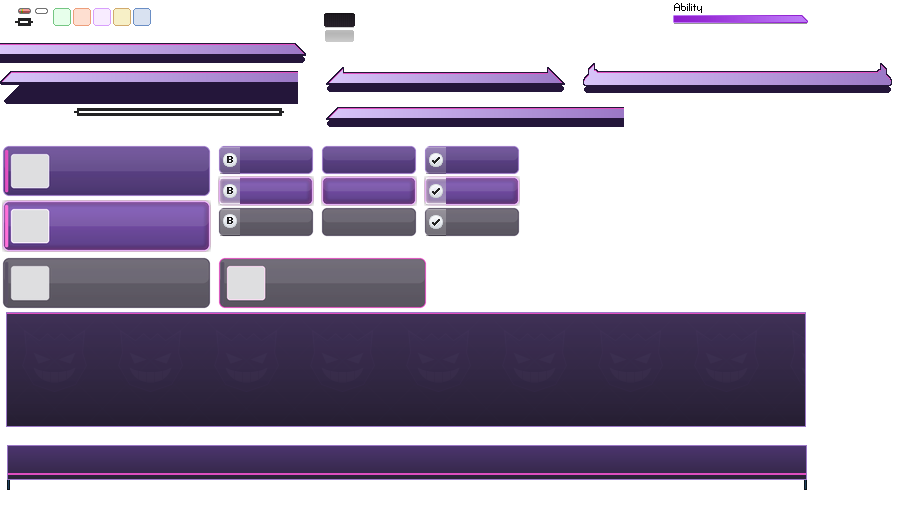
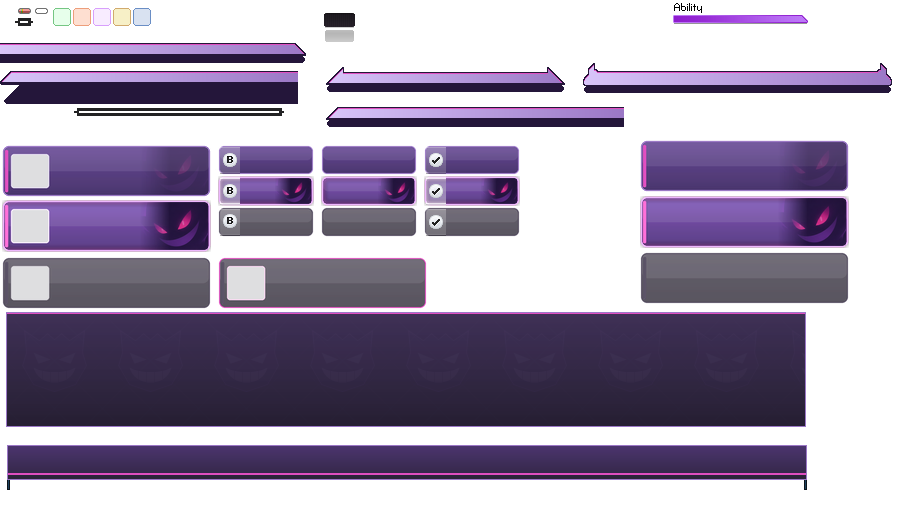
style: Actualiza el HUD de combate

diff --git a/herramientas/battle_hud.py b/herramientas/battle_hud.py
@@ -2,8 +2,16 @@ import sys
 from PIL import Image, ImageDraw, ImageFilter
 
 src, pattern, dst = sys.argv[1], sys.argv[2], sys.argv[3]
+face_src = sys.argv[4] if len(sys.argv) > 4 else None
 S = 4
+import numpy as np
+from PIL import ImageEnhance
 im = Image.open(src).convert("RGBA")
+face_img = None
+if face_src:
+    fs = Image.open(face_src).convert("RGBA")
+    fw_, fh_ = fs.size
+    face_img = fs.crop((int(fw_ * 0.70), int(fh_ * 0.27), int(fw_ * 0.955), int(fh_ * 0.585)))
 pat = Image.open(pattern).convert("RGBA")
 
 
@@ -21,7 +29,7 @@ def clear(box):
     im.paste(Image.new("RGBA", (w, h), (0, 0, 0, 0)), (x, y))
 
 
-def rounded(box, top, bottom, border, radius, accent=None, glow=None, square=False, icon=None):
+def rounded(box, top, bottom, border, radius, accent=None, glow=None, square=False, icon=None, face=None):
     x, y, w, h = box
     big = Image.new("RGBA", (w * S, h * S), (0, 0, 0, 0))
     g = Image.new("RGBA", (w * S, h * S))
@@ -45,6 +53,26 @@ def rounded(box, top, bottom, border, radius, accent=None, glow=None, square=Fal
         d.rounded_rectangle([9 * S, 9 * S, (h - 9) * S + 4 * S, (h - 9) * S], radius=3 * S, fill=(18, 12, 30, 35), outline=(border[0], border[1], border[2], 60), width=S)
     d.rounded_rectangle([S, S, w * S - S - 1, h * S - S - 1], radius=radius * S, outline=border, width=S)
     small = big.resize((w, h), Image.LANCZOS)
+    if face is not None and face_img is not None:
+        strength, = face
+        fh = h - 4
+        fw = int(face_img.width * fh / face_img.height)
+        f = face_img.resize((fw, fh), Image.LANCZOS)
+        if strength < 0.5:
+            f = ImageEnhance.Brightness(f).enhance(0.55)
+        fade = Image.new("L", (fw, fh), 0)
+        fd = ImageDraw.Draw(fade)
+        for i in range(fw):
+            fd.line([(i, 0), (i, fh)], fill=int(255 * strength * min(1, i / (fw * 0.45))))
+        f.putalpha(Image.fromarray(np.minimum(np.array(f.getchannel("A")), np.array(fade)).astype(np.uint8)))
+        clip = small.getchannel("A")
+        layer = Image.new("RGBA", (w, h), (0, 0, 0, 0))
+        layer.alpha_composite(f, (w - fw - 3, 2))
+        layer.putalpha(Image.fromarray(np.minimum(np.array(layer.getchannel("A")), np.array(clip)).astype(np.uint8)))
+        small.alpha_composite(layer)
+        bd = Image.new("RGBA", (w * S, h * S), (0, 0, 0, 0))
+        ImageDraw.Draw(bd).rounded_rectangle([S, S, w * S - S - 1, h * S - S - 1], radius=radius * S, outline=border, width=S)
+        small.alpha_composite(bd.resize((w, h), Image.LANCZOS))
     if icon is not None:
         small.alpha_composite(icon)
     clear(box)
@@ -90,8 +118,11 @@ base = dict(top=hx("#5E3D90", 235), bottom=hx("#3A2460", 235), border=hx("#9B78C
 hover = dict(top=hx("#7D52B8", 245), bottom=hx("#55367F", 245), border=hx("#F0B8FF"), radius=6, accent=hx("#FF6FD8"), glow=hx("#E04EC0", 180))
 dis = dict(top=hx("#3C3546", 200), bottom=hx("#2B2633", 200), border=hx("#5A5266"), radius=6, accent=hx("#5A5266"))
 dish = dict(dis, border=hx("#E04EC0"))
-rounded((2, 145, 209, 52), square=True, **base)
-rounded((2, 200, 209, 52), square=True, **hover)
+rounded((2, 145, 209, 52), square=True, face=(0.35,), **base)
+rounded((2, 200, 209, 52), square=True, face=(1.0,), **hover)
+rounded((640, 140, 209, 52), face=(0.35,), **base)
+rounded((640, 196, 209, 52), face=(1.0,), **hover)
+rounded((640, 252, 209, 52), **dis)
 rounded((2, 257, 209, 52), square=True, **dis)
 rounded((218, 257, 209, 52), square=True, **dish)
 
@@ -108,7 +139,7 @@ for col, _ in small_sets:
         if ic is not None:
             icon_layer = Image.new("RGBA", (96, 30), (0, 0, 0, 0))
             icon_layer.alpha_composite(ic, (2, 0))
-        rounded((col, row, 96, 30), icon=icon_layer, **st2)
+        rounded((col, row, 96, 30), icon=icon_layer, face=(1.0,) if row == 176 else None, **st2)
 
 x, y, w, h = 6, 312, 800, 115
 panel = Image.new("RGBA", (w, h))
